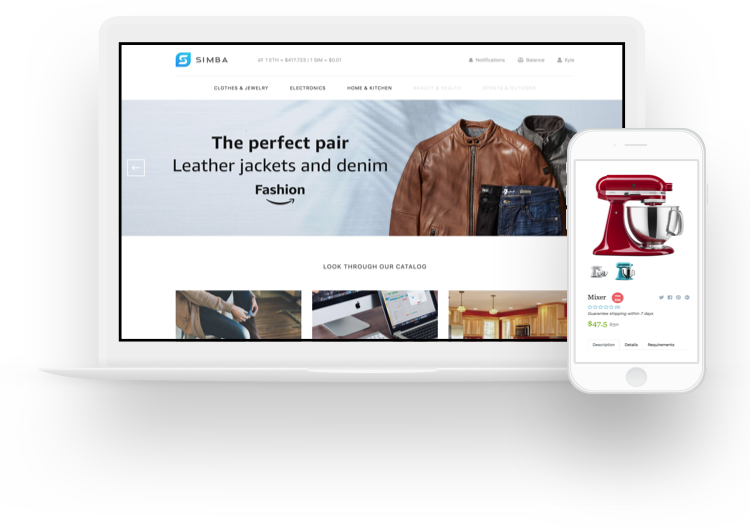
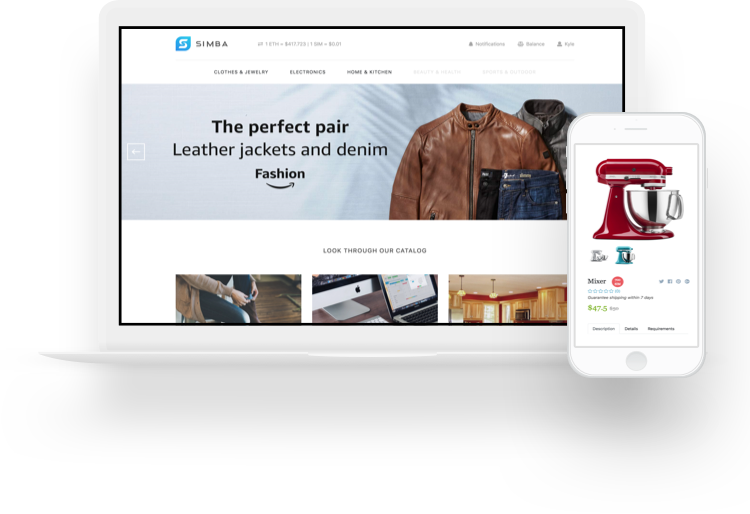
clean POC and some intro stuff

Changed region(s): [[0.1533, 0.0311, 0.9507, 0.7471], [0.4293, 0.6848, 0.552, 0.716]]

diff --git a/app/assets/stylesheets/homepage/_poc.scss b/app/assets/stylesheets/homepage/_poc.scss
@@ -1,6 +1,6 @@
 .poc {
   color: #fff;
-  padding: 30px 0;
+  padding: 60px 0;
   position: relative;
 
   &.mobile-tablet {
@@ -19,10 +19,10 @@
 
   h2 {
     line-height: 1.2em;
-    margin-top: 26px;
     margin-bottom: 20px;
     // padding-left: 20px;
     font-size: 28px;
+    margin-bottom: 33px;
 
     @media(min-width: $medium) {
       text-align: left;
@@ -61,48 +61,12 @@
     // background: image-url("poc_laptop@2x.png");
     // background-size: cover;
     // background-repeat: no-repeat;
-    padding: 30px 0px;
+    // padding: 30px 0px;
     border-radius: 5px;
     position: relative;
 
     .laptop-screenshot {
       width: 100%;
-    }
-
-    .email-signup {
-      margin-top: 0;
-      position: absolute;
-      bottom: -70px;
-      width: 100%;
-
-      button {
-        font-size: 14px;
-        z-index: 10;
-        display: flex;
-        flex-direction: column;
-        align-items: center;
-        justify-content: center;
-
-        span {
-          font-family: "Avenir Next";
-          font-weight: 500;
-          font-size: 10px;
-          opacity: 0.8;
-        }
-      }
-
-      @media(min-width: $medium) {
-        justify-content: flex-start;
-        position: relative;
-        bottom: -30px;
-
-        button {
-          width: 260px;
-          height: 53px;
-          border-radius: 4px;
-          box-shadow: 0 2px 11px 0 rgba(0, 81, 133, 0.18);
-        }
-      }
     }
 
     @media(min-width: $medium) {
@@ -118,13 +82,16 @@
     }
   }
 
+  .email-signup {
+    margin-top: 0;
+  }
+
   .poc-benefits {
-    margin-top: 15px;
+    margin-top: -20px;
     flex-direction: column;
-    font-family: var(--h3-font);
+    font-family: var(--paragra-font);
     font-weight: 400;
     width: 100%;
-    padding-left: 20px;
 
     @media(min-width: $medium) {
       font-size: 21px;

diff --git a/app/assets/stylesheets/application.scss b/app/assets/stylesheets/application.scss
@@ -84,6 +84,7 @@ h1 {
   line-height: normal;
   color: #ffffff;
   text-align: center;
+  -webkit-font-smoothing: antialiased;
   @media(min-width: $medium) {
     font-size: 35px;
     line-height: 1.11;
@@ -105,6 +106,7 @@ h2 {
   color: var(--h2-color);
   margin-bottom: 20px;
   display: flex;
+  -webkit-font-smoothing: antialiased;
 
   img {
     margin-right: 15px;
@@ -238,6 +240,8 @@ button {
   }
 
   button {
+    -webkit-font-smoothing: antialiased;
+
     width: 100%;
     height: 56px;
     border-radius: 3px;
@@ -246,7 +250,7 @@ button {
     margin-top: 10px;
     font-family: var(--paragraph-font);
     font-size: 13px;
-    font-weight: bold;
+    font-weight: 600;
     letter-spacing: 0.7px;
     text-align: center;
     color: #ffffff;

diff --git a/app/assets/stylesheets/homepage/_intro.scss b/app/assets/stylesheets/homepage/_intro.scss
@@ -3,7 +3,7 @@
 section.intro {
   color: #FFF;
   position: relative;
-  padding-bottom: 60px;
+  padding-bottom: 30px;
   // background-color: #0a68a8;
   @media(min-width: $medium) {
     background-color: #0665B0;
